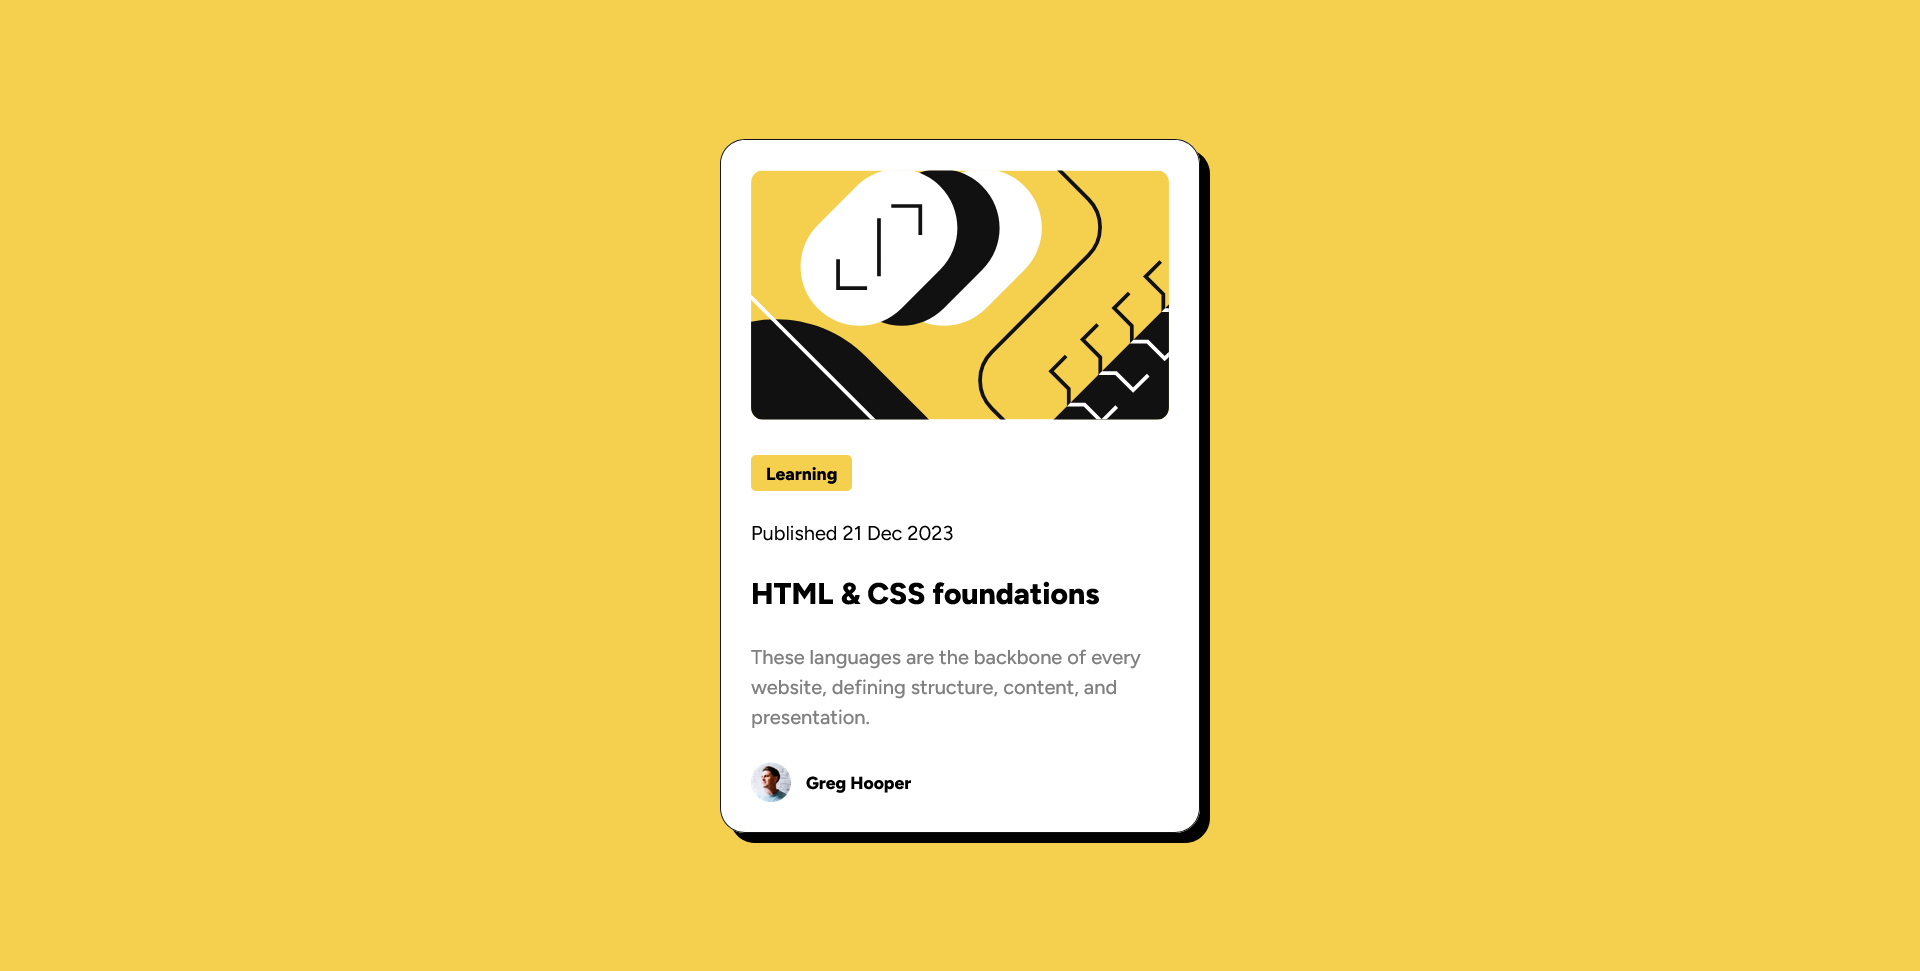
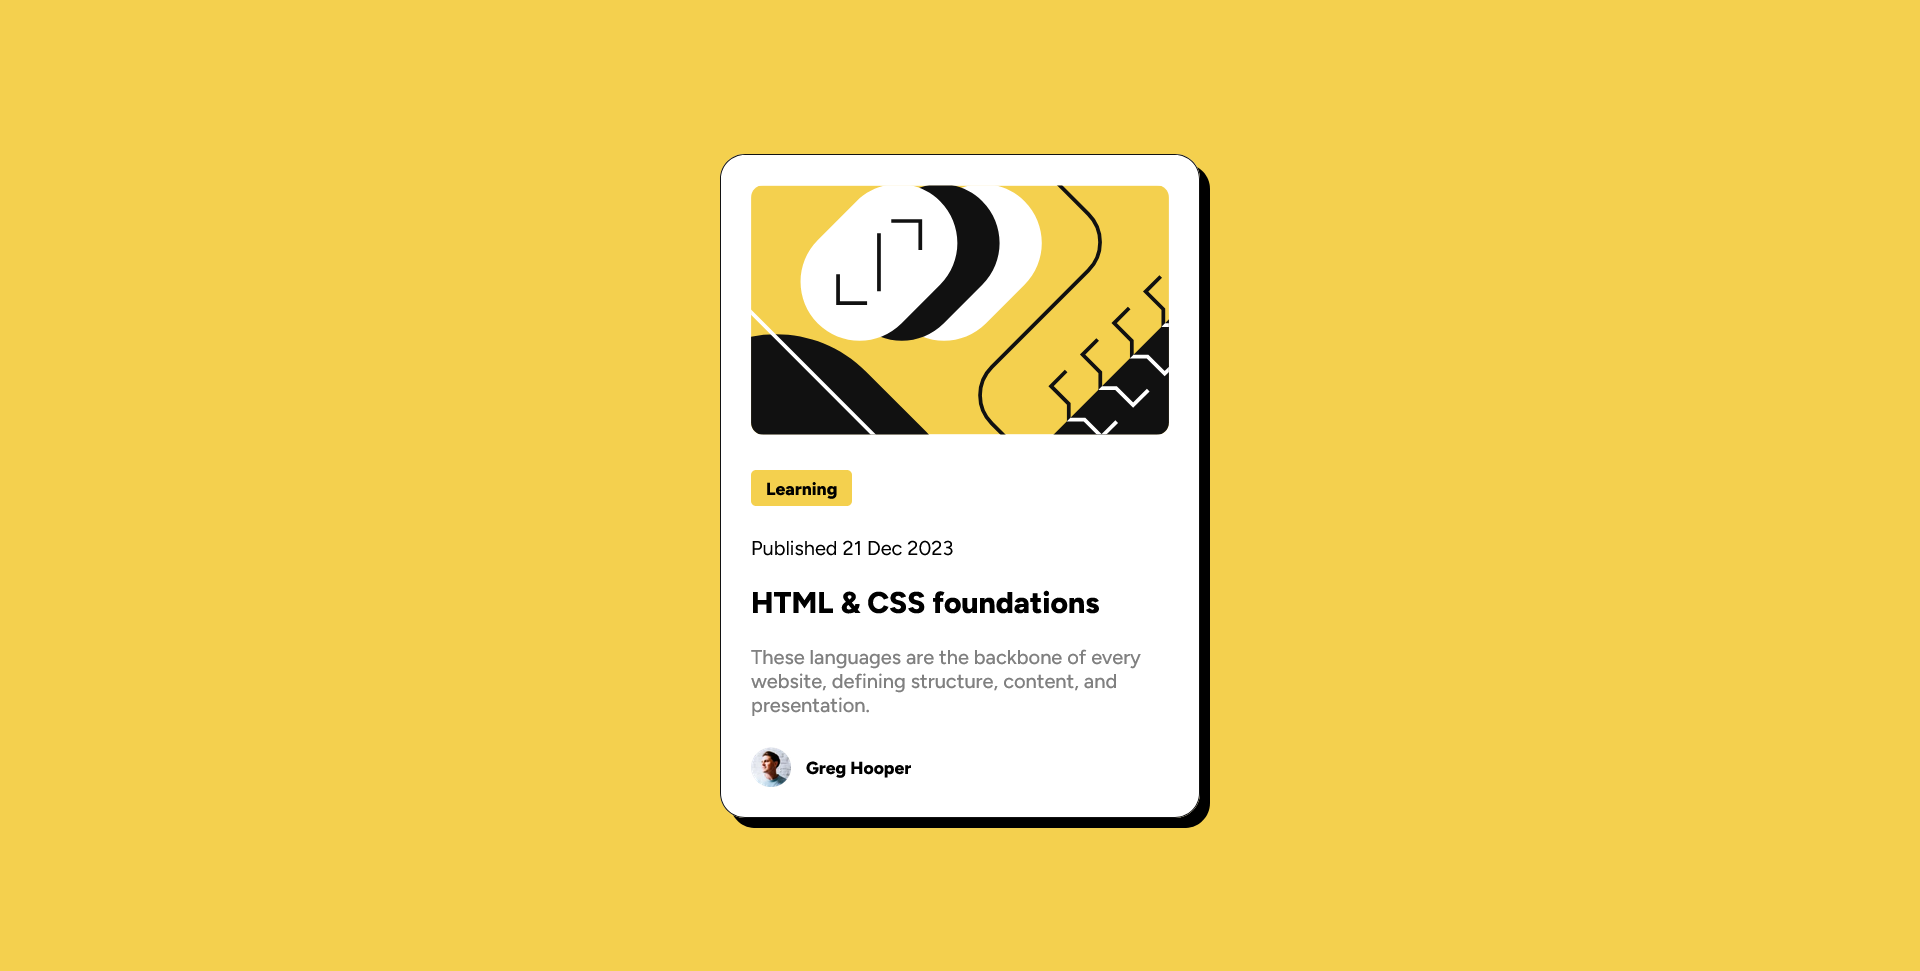
Completee

Changed region(s): [[0.375, 0.1236, 0.625, 0.6488], [0.375, 0.7724, 0.625, 0.8651], [0.375, 0.6797, 0.5938, 0.7415]]

diff --git a/style.css b/style.css
@@ -58,7 +58,7 @@ body {
 .heading {
   font-size: 24px;
   font-weight: 800;
-  margin-block: 1.5rem;
+  margin-block: 1.2rem;
 }
 
 .heading:hover {
@@ -69,7 +69,7 @@ body {
 .description {
   font-size: var(--font-p);
   font-weight: 500;
-  line-height: 1.5rem;
+  line-height: 1.2rem;
   color: var(--grey);
 }
 
